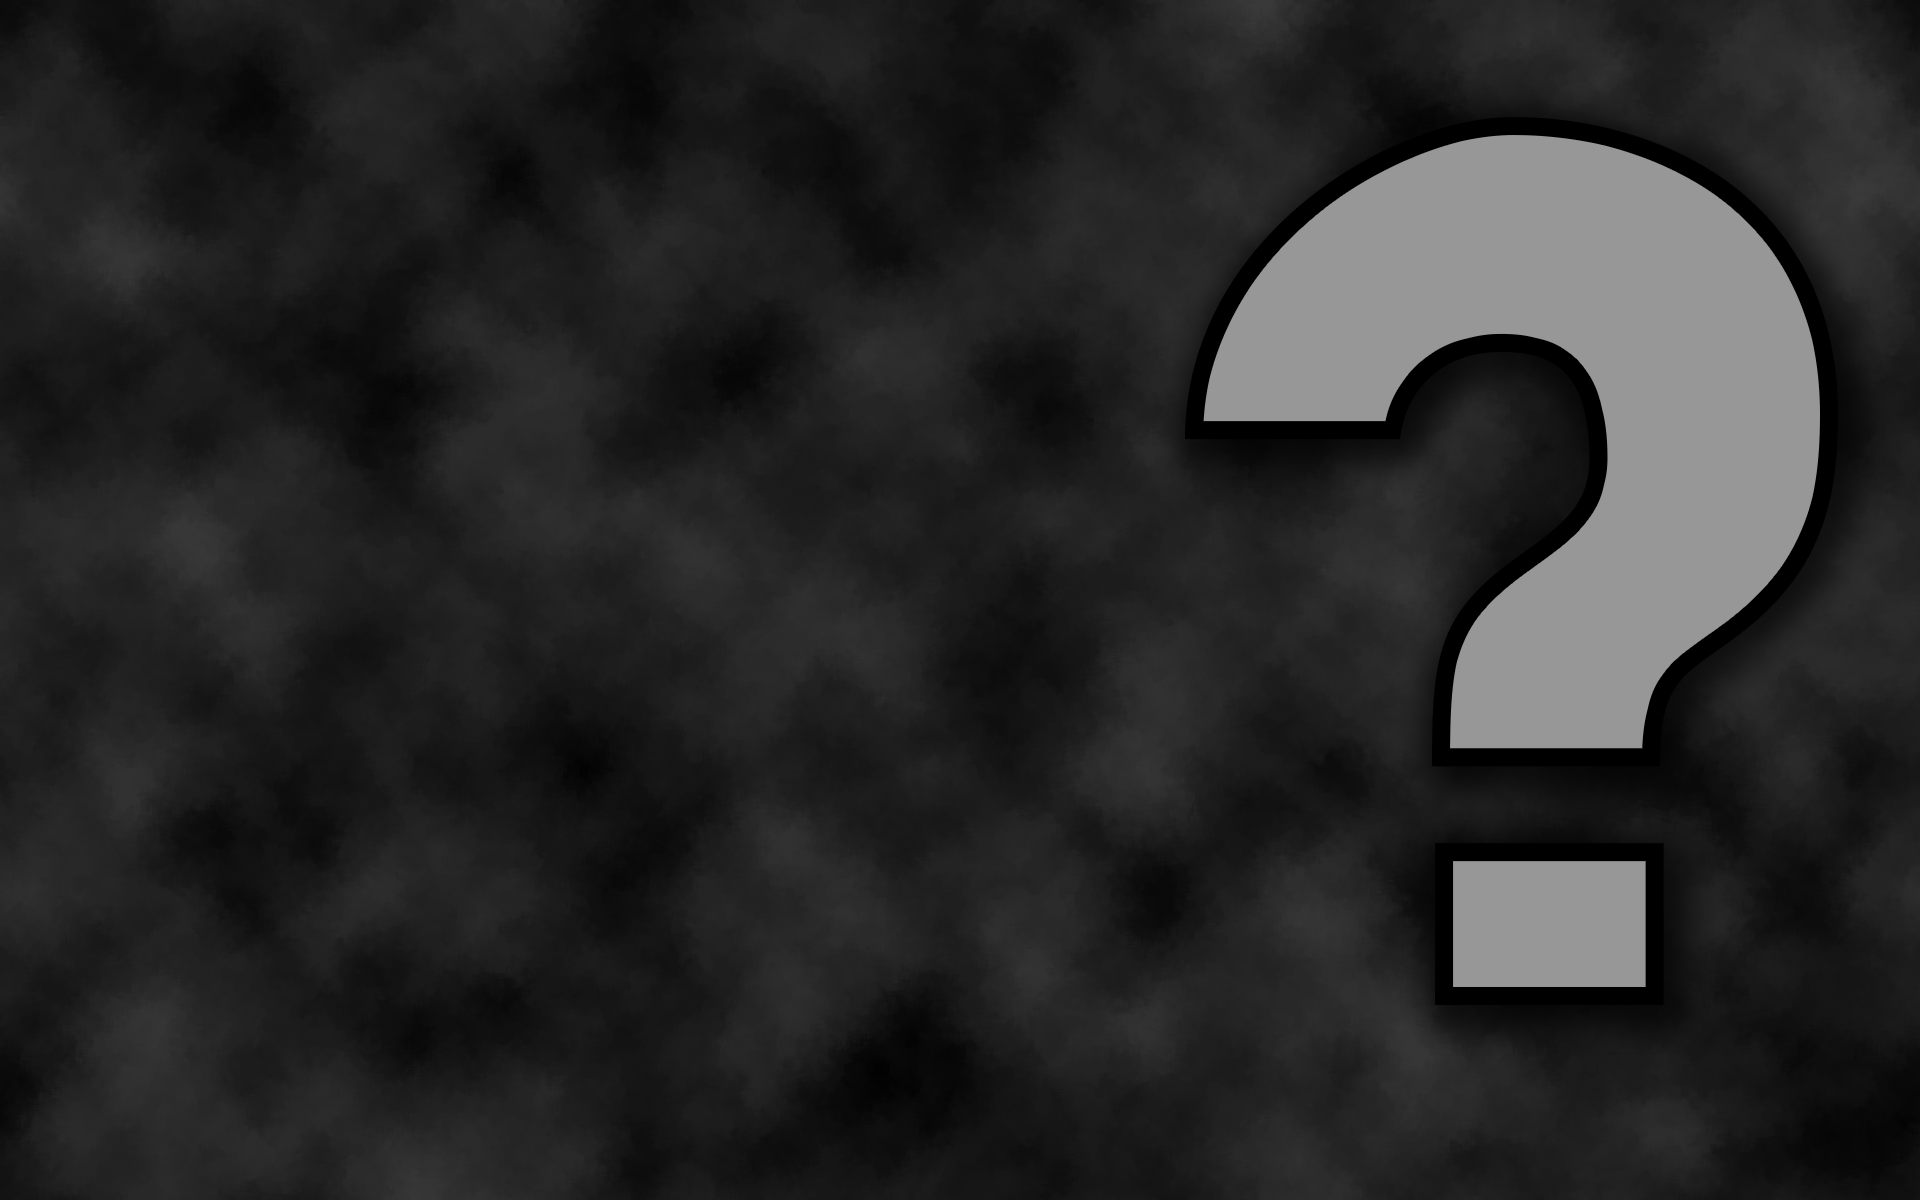
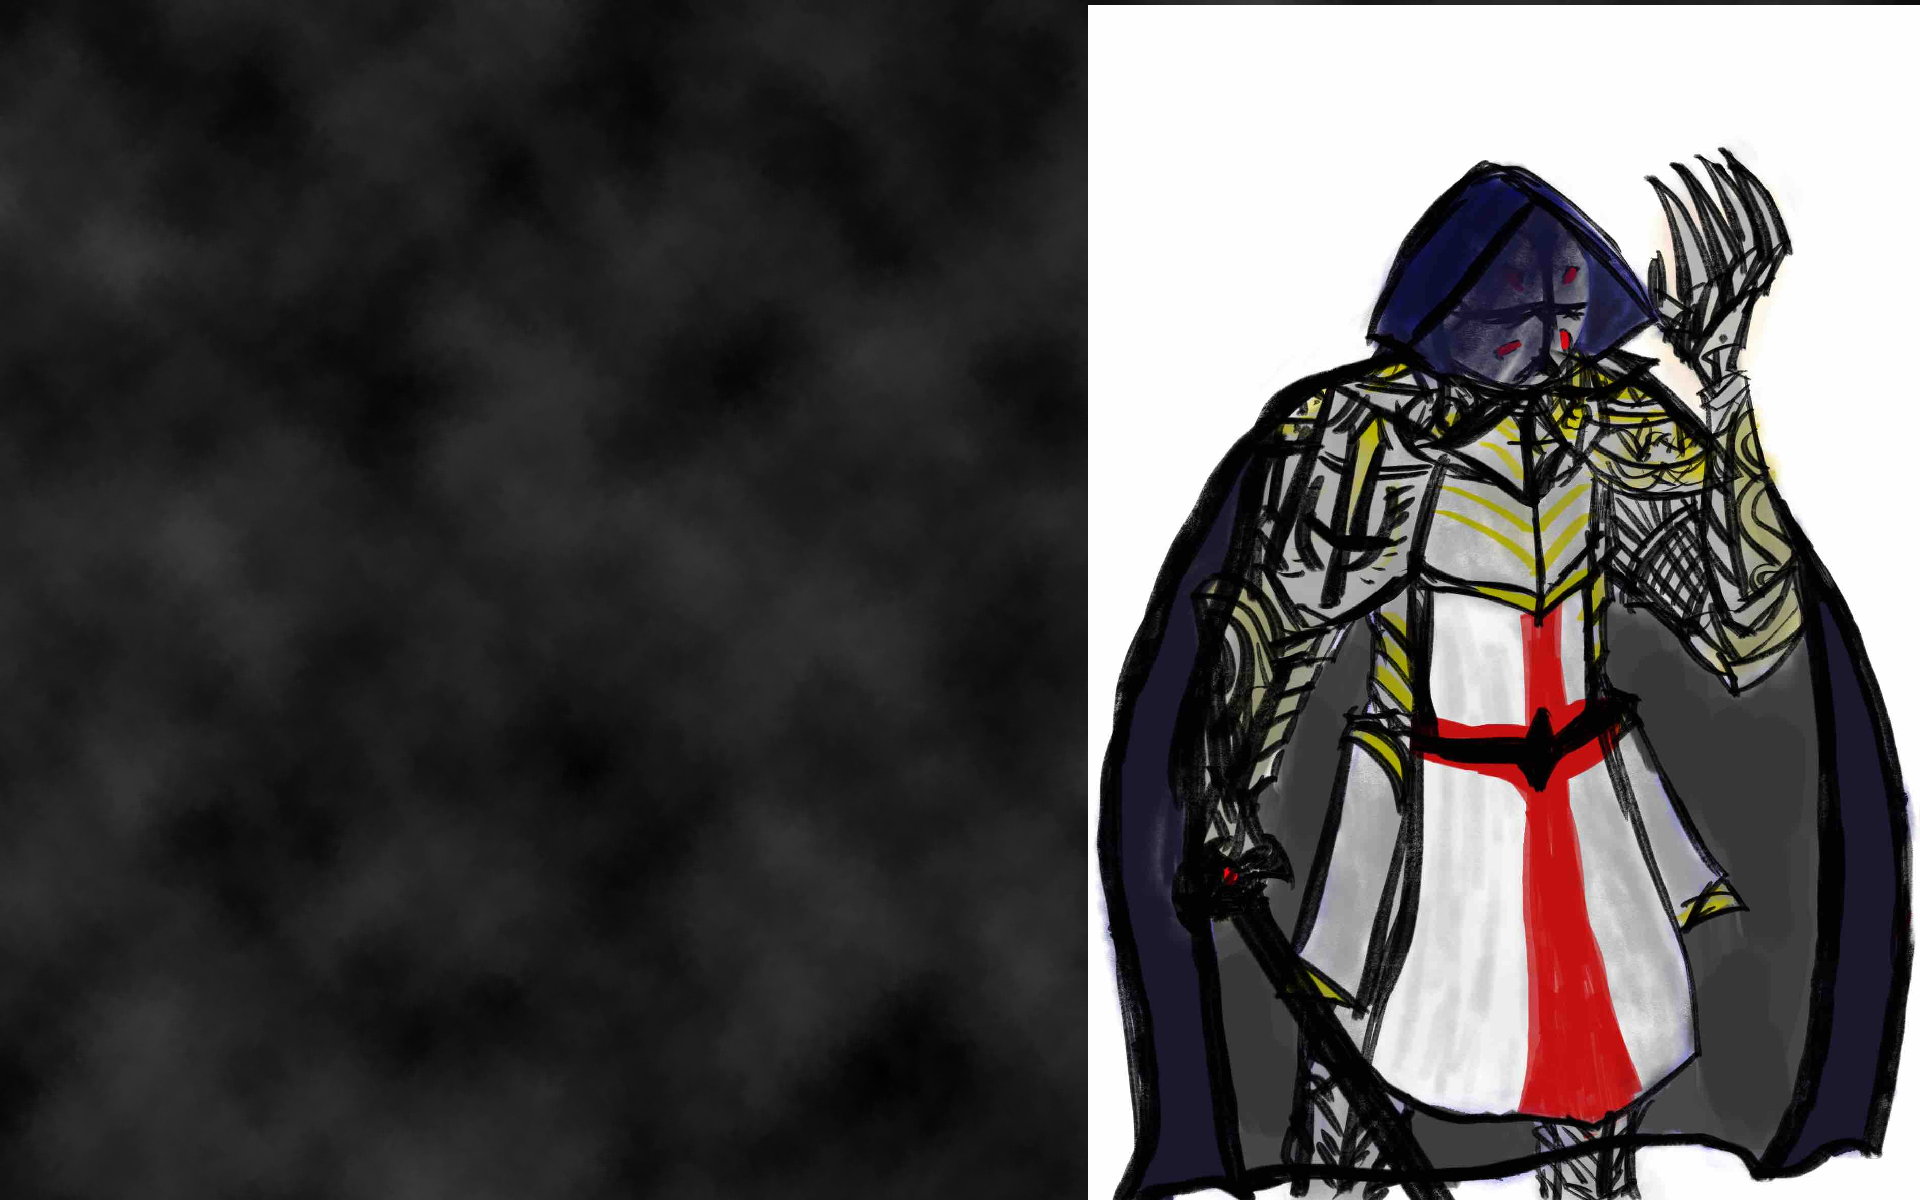
Add ZoraRing relic

diff --git a/src/main/java/eternalexpedition/BasicMod.java b/src/main/java/eternalexpedition/BasicMod.java
@@ -1,12 +1,11 @@
 package eternalexpedition;
 
+import basemod.AutoAdd;
 import basemod.BaseMod;
-import basemod.interfaces.AddAudioSubscriber;
-import basemod.interfaces.EditKeywordsSubscriber;
-import basemod.interfaces.EditStringsSubscriber;
-import basemod.interfaces.PostInitializeSubscriber;
-import basemod.interfaces.EditCharactersSubscriber; // add by Brady
+import basemod.interfaces.*;
+import com.megacrit.cardcrawl.unlock.UnlockTracker;
 import eternalexpedition.character.MyCharacter;
+import eternalexpedition.relics.BaseRelic;
 import eternalexpedition.util.GeneralUtils;
 import eternalexpedition.util.KeywordInfo;
 import eternalexpedition.util.Sounds;
@@ -35,6 +34,7 @@ import java.util.*;
 
 @SpireInitializer
 public class BasicMod implements
+        EditRelicsSubscriber,
         EditCharactersSubscriber,
         EditStringsSubscriber,
         EditKeywordsSubscriber,
@@ -61,7 +61,23 @@ public class BasicMod implements
         BaseMod.subscribe(this); //This will make BaseMod trigger all the subscribers at their appropriate times.
         logger.info(modID + " subscribed to BaseMod.");
     }
+    // Add by Brady
+    @Override
+    public void receiveEditRelics() { //somewhere in the class
+        new AutoAdd(modID) //Loads files from this mod
+                .packageFilter(BaseRelic.class) //In the same package as this class
+                .any(BaseRelic.class, (info, relic) -> { //Run this code for any classes that extend this class
+                    if (relic.pool != null)
+                        BaseMod.addRelicToCustomPool(relic, relic.pool); //Register a custom character specific relic
+                    else
+                        BaseMod.addRelic(relic, relic.relicType); //Register a shared or base game character specific relic
 
+                    //If the class is annotated with @AutoAdd.Seen, it will be marked as seen, making it visible in the relic library.
+                    //If you want all your relics to be visible by default, just remove this if statement.
+                    if (info.seen)
+                        UnlockTracker.markRelicAsSeen(relic.relicId);
+                });
+    }
     // Add by Brady
     @Override
     public void receiveEditCharacters() {

diff --git a/src/main/java/eternalexpedition/relics/character/ZoraRing.java b/src/main/java/eternalexpedition/relics/character/ZoraRing.java
@@ -1,0 +1,17 @@
+package eternalexpedition.relics.character;
+
+import eternalexpedition.character.MyCharacter;
+import eternalexpedition.relics.BaseRelic;
+
+import static eternalexpedition.BasicMod.makeID;
+
+public class ZoraRing extends BaseRelic {
+    private static final String NAME = "Zora Ring"; //The name will be used for determining the image file as well as the ID.
+    public static final String ID = makeID(NAME); //This adds the mod's prefix to the relic ID, resulting in modID:MyRelic
+    private static final RelicTier RARITY = RelicTier.COMMON; //The relic's rarity.
+    private static final LandingSound SOUND = LandingSound.CLINK; //The sound played when the relic is clicked.
+
+    public ZoraRing() {
+        super(ID, NAME, MyCharacter.Meta.CARD_COLOR, RARITY, SOUND);
+    }
+}

diff --git a/src/main/java/eternalexpedition/character/MyCharacter.java b/src/main/java/eternalexpedition/character/MyCharacter.java
@@ -35,7 +35,7 @@ public class MyCharacter extends CustomPlayer {
     public static final int ORB_SLOTS = 0;
 
     //Strings
-    private static final String ID = BasicMod.makeID("CharacterID"); //This should match whatever you have in the CharacterStrings.json file
+    private static final String ID = BasicMod.makeID("PaladinID"); //This should match whatever you have in the CharacterStrings.json file
     private static String[] getNames() { return CardCrawlGame.languagePack.getCharacterString(ID).NAMES; }
     private static String[] getText() { return CardCrawlGame.languagePack.getCharacterString(ID).TEXT; }
 

diff --git a/src/main/java/eternalexpedition/powers/BasePower.java b/src/main/java/eternalexpedition/powers/BasePower.java
@@ -22,7 +22,7 @@ public abstract class BasePower extends AbstractPower {
     protected String[] DESCRIPTIONS;
 
     //Will not display if at 0. You can override renderAmount to render it however you want.
-    //amount2 will not stack like the normal amount variable when stacking a power.
+    //amount2 will not stack like the character amount variable when stacking a power.
     public int amount2 = 0;
     protected Color redColor2 = Color.RED.cpy();
     protected Color greenColor2 = Color.GREEN.cpy();
